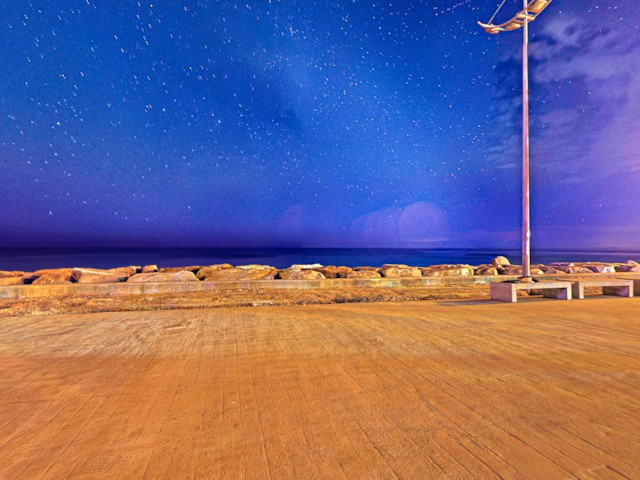
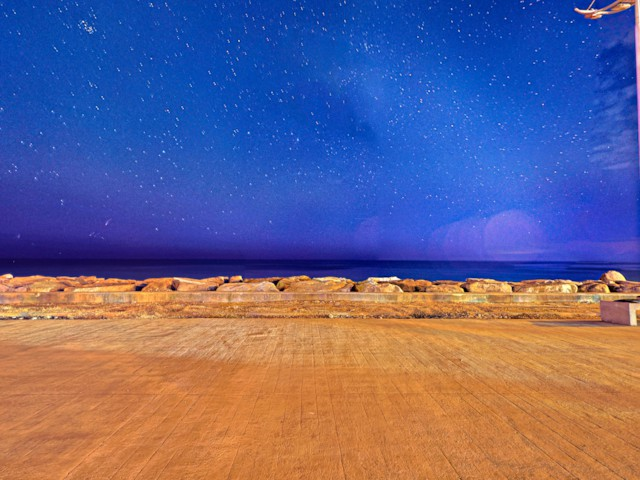
Upload

diff --git a/index.html b/index.html
@@ -61,7 +61,7 @@
 			panorama+='    <preview strip="1" color="0x808080"/>';
 			panorama+='  </input>';
 			panorama+='  <view fovmode="0" pannorth="0">';
-			panorama+='    <start projection="4" tilt="0.491633" pan="-10.9292" fov="70"/>';
+			panorama+='    <start projection="4" tilt="2.56113" pan="1.7195" fov="70"/>';
 			panorama+='    <flyin projection="9" tilt="-90" pan="0" fov="170"/>';
 			panorama+='    <min tilt="-90" pan="0" fov="5"/>';
 			panorama+='    <max tilt="90" fovstereographic="270" fovfisheye="360" pan="360" fov="120" scaletofit="1"/>';
@@ -73,6 +73,7 @@
 			panorama+='  </hotspots>';
 			panorama+='  <media/>';
 			panorama+='  <transition enabled="0" zoomfov="20" blendcolor="0x000000" type="crossdissolve" zoomout="0" softedge="0" blendtime="1" zoomspeed="2" zoomin="0" zoomoutpause="1"/>';
+			panorama+='  <autorotate enabled="1" startloaded="0" useanimation="0" speed="0.100" delay="5.00" returntohorizon="0.000" nodedelay="0.00" noderandom="1"/>';
 			panorama+='  <animation syncanimationwithvideo="0" useinautorotation="0"/>';
 			panorama+='  <control invertwheel="0" lockedkeyboard="0" simulatemass="1" contextfullscreen="0" dblclickfullscreen="0" invertcontrol="1" contextprojections="0" speedwheel="1" rubberband="0" lockedkeyboardzoom="0" hideabout="0" sensitivity="8" lockedwheel="0" lockedmouse="0"/>';
 			panorama+='</panorama>';

diff --git a/skin.js b/skin.js
@@ -1,7 +1,7 @@
 // Garden Gnome Software - Skin
 // Pano2VR 5.2.4/15996
 // Filename: minimalist.ggsk
-// Generated Сб апр 12 19:17:41 2025
+// Generated Сб апр 12 19:47:54 2025
 
 function pano2vrSkin(player,base) {
 	var ggSkinVars = [];
